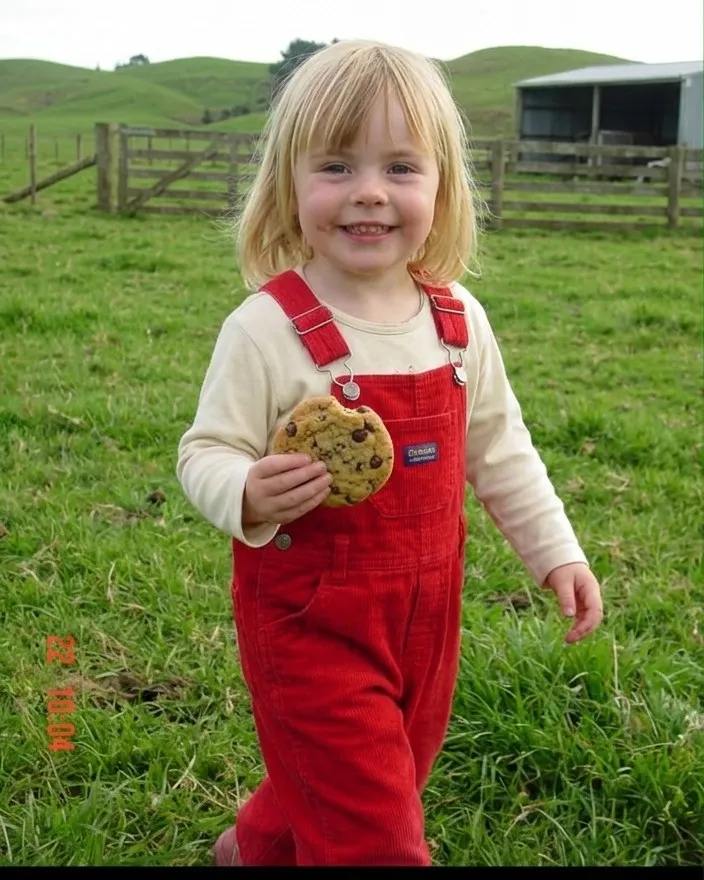
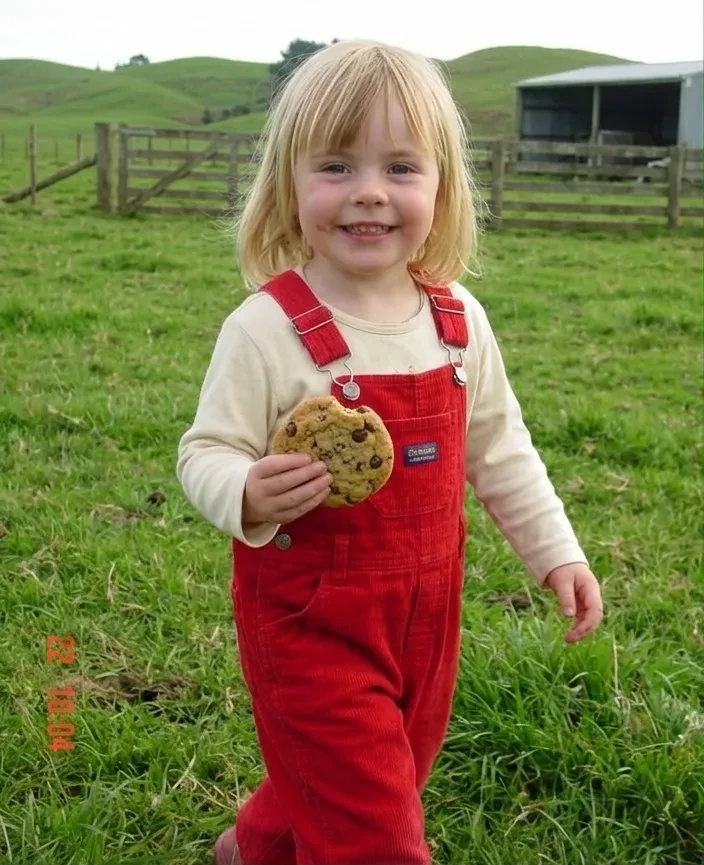
Story: larger photo column; trim the black scan strip off the 3-year-old photo

diff --git a/site/src/components/Story.tsx b/site/src/components/Story.tsx
@@ -28,7 +28,7 @@ const MOMENTS = [
 /** Three equal arches (3 → 8 → today); on hover a photo lifts gently off its colour block. */
 function Photos() {
   return (
-    <ul className="reveal grid min-w-0 flex-[1.3_1_480px] grid-cols-3 items-end gap-4 pr-3 pb-3 sm:gap-7">
+    <ul className="reveal grid min-w-0 flex-[1.6_1_520px] grid-cols-3 items-end gap-4 pr-3 pb-3 sm:gap-7">
       {MOMENTS.map((m) => (
         <li key={m.age} className="group text-center">
           <div className="relative">
@@ -38,7 +38,7 @@ function Photos() {
                 src={m.src}
                 alt={m.alt}
                 fill
-                sizes="(min-width: 1100px) 200px, (min-width: 640px) 30vw, 32vw"
+                sizes="(min-width: 1100px) 230px, (min-width: 640px) 30vw, 32vw"
                 className="object-cover transition-transform duration-700 group-hover:scale-[1.04]"
               />
             </div>
@@ -58,7 +58,7 @@ function Photos() {
 export default function Story() {
   return (
     <section id="historia" className="bg-sheet px-6 py-24">
-      <div className="mx-auto flex max-w-[1180px] flex-wrap items-center gap-x-16 gap-y-16">
+      <div className="mx-auto flex max-w-[1180px] flex-wrap items-center gap-x-14 gap-y-16">
         <Photos />
 
         <div className="reveal min-w-0 flex-[1_1_420px]">
